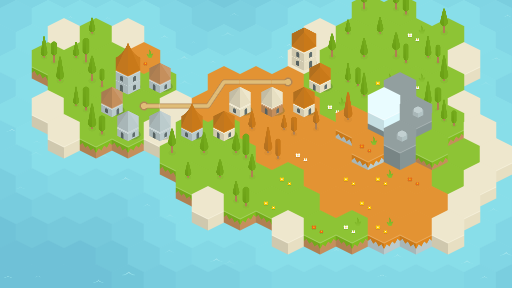
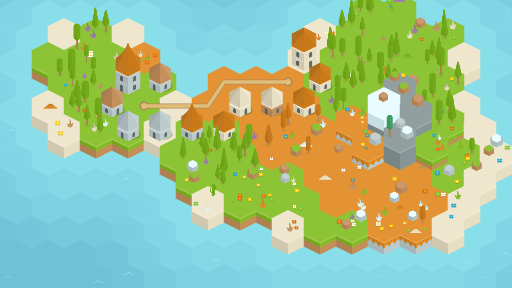
Improve Hex Coast roads and scenery variety

diff --git a/src/puzzles/hexCoast/HexCoastScene.ts b/src/puzzles/hexCoast/HexCoastScene.ts
@@ -9,7 +9,8 @@ import terrainImage from './assets/fullTiles.png';
 import terrainAtlas from './assets/fullTiles.xml?url';
 import treeImage from './assets/trees.png';
 import treeAtlas from './assets/trees.xml?url';
-import { coastSize, generateHexCoast, shoreHeight, terraceHeight } from './hexCoastLayout';
+import { coastSize, generateHexCoast, shoreHeight, terraceHeight, type CoastTile } from './hexCoastLayout';
+import { scatterHexScenery } from './hexCoastScenery';
 
 const sheets = [
   ['terrain', terrainImage, terrainAtlas],
@@ -27,6 +28,32 @@ const tileOriginY = 32 / 89;
 const wallHeight = 23;
 
 type Wave = { image: Phaser.GameObjects.Image; x: number; y: number; phase: number };
+type RoadPoint = Pick<CoastTile, 'x' | 'y'>;
+
+function roadStrokes(road: CoastTile[]) {
+  const rows = new Map<number, { from: RoadPoint; to: RoadPoint }[]>();
+  const add = (from: RoadPoint, to: RoadPoint) => {
+    const row = rows.get(from.y);
+    if (row) row.push({ from, to });
+    else rows.set(from.y, [{ from, to }]);
+  };
+  const halfStroke = (from: RoadPoint, to: RoadPoint) => {
+    // Extend just past the midpoint so the diagonal halves cover their seam.
+    add(from, { x: from.x + (to.x - from.x) * 0.52, y: from.y + (to.y - from.y) * 0.52 });
+  };
+
+  for (let index = 1; index < road.length; index += 1) {
+    const from = road[index - 1];
+    if (road[index].y === from.y) {
+      while (road[index + 1]?.y === from.y) index += 1;
+      add(from, road[index]);
+    } else {
+      halfStroke(from, road[index]);
+      halfStroke(road[index], from);
+    }
+  }
+  return rows;
+}
 
 export class HexCoastScene extends Phaser.Scene {
   static readonly key = 'HexCoast';
@@ -52,7 +79,6 @@ export class HexCoastScene extends Phaser.Scene {
     const { tiles, road, towns, buildings } = generateHexCoast(seed);
     const land = tiles.filter((tile) => tile.biome !== 'water');
     const random = seededRandom((seed ^ 0x5d3b6c17) >>> 0);
-    const choose = (frames: string[]) => frames[Math.floor(random() * frames.length)];
     const map = this.add.container().setScale(width / coastSize.width, height / coastSize.height);
     map.add(this.add.rectangle(0, 0, coastSize.width, coastSize.height, 0x6ebacf).setOrigin(0));
     const sprite = (sheet: Sheet, frame: string, x: number, y: number, scale = 1, originY = 1) => {
@@ -76,60 +102,68 @@ export class HexCoastScene extends Phaser.Scene {
       }
     }
 
-    const roadIndex = new Map(road.map((id, index) => [id, index]));
+    const landRows = new Map<number, typeof land>();
     for (const tile of land) {
-      const { id, x, y, level, biome, wooded } = tile;
-      for (let below = 0; below < level - 1; below += 1) {
-        ground('tileRock_full', x, y - shoreHeight - below * terraceHeight);
+      const row = landRows.get(tile.y);
+      if (row) row.push(tile);
+      else landRows.set(tile.y, [tile]);
+    }
+    const strokes = roadStrokes(road.map((id) => tiles[id]));
+    const roadIds = new Set(road);
+    for (const [rowY, row] of landRows) {
+      for (const { x, y, level, biome } of row) {
+        for (let below = 0; below < level - 1; below += 1) {
+          ground('tileRock_full', x, y - shoreHeight - below * terraceHeight);
+        }
+        ground(groundFrames[biome], x, y - shoreHeight - (level - 1) * terraceHeight);
       }
-      const surface = y - shoreHeight - (level - 1) * terraceHeight;
-      ground(groundFrames[biome], x, surface);
 
-      const index = roadIndex.get(id);
-      if (index !== undefined) {
-        const paths = [road[index - 1], road[index + 1]].filter((neighbor) => neighbor !== undefined);
+      // Paint the whole row's ground first, then draw straight streets as single strokes.
+      const streets = strokes.get(rowY);
+      if (streets) {
         const street = this.add.graphics();
         for (const [width, color] of [[10, 0xb18756], [7, 0xe0bd78]]) {
           street.lineStyle(width, color);
           street.beginPath();
-          for (const neighbor of paths) {
-            street.moveTo(x, surface);
-            street.lineTo((x + tiles[neighbor].x) / 2, (y + tiles[neighbor].y) / 2 - shoreHeight);
+          for (const { from, to } of streets) {
+            street.moveTo(from.x, from.y - shoreHeight);
+            street.lineTo(to.x, to.y - shoreHeight);
           }
           street.strokePath();
-          street.fillStyle(color).fillCircle(x, surface, towns.includes(id) ? width * 0.9 : width / 2);
+          street.fillStyle(color);
+          for (const { id, x, y } of row) {
+            if (roadIds.has(id)) street.fillCircle(x, y - shoreHeight, towns.includes(id) ? width * 0.9 : width / 2);
+          }
         }
         map.add(street);
-        continue;
       }
 
-      const building = buildings.get(id);
-      if (building) {
-        const scale = building.floors === 2 ? 0.75 : 0.66;
-        const shadow = this.add.ellipse(x + 4, surface + 9, 43, 22, 0x465c3c, 0.28);
-        map.add(shadow);
-        for (let floor = 1; floor <= building.floors; floor += 1) {
-          sprite('buildings', floor === 1 ? building.wall : building.upper,
-            x, surface - floor * wallHeight * scale, scale, tileOriginY);
+      const scenery: { y: number; draw: () => void }[] = [];
+      for (const tile of row) {
+        const { id, x, y, level } = tile;
+        if (roadIds.has(id)) continue;
+        const surface = y - shoreHeight - (level - 1) * terraceHeight;
+        const building = buildings.get(id);
+        if (building) {
+          scenery.push({ y: surface, draw: () => {
+            const scale = building.floors === 2 ? 0.75 : 0.66;
+            map.add(this.add.ellipse(x + 4, surface + 9, 43, 22, 0x465c3c, 0.28));
+            for (let floor = 1; floor <= building.floors; floor += 1) {
+              sprite('buildings', floor === 1 ? building.wall : building.upper,
+                x, surface - floor * wallHeight * scale, scale, tileOriginY);
+            }
+            sprite('buildings', building.roof, x, surface + (32 - building.floors * wallHeight) * scale, scale);
+          } });
+          continue;
         }
-        sprite('buildings', building.roof, x, surface + (32 - building.floors * wallHeight) * scale, scale);
-        continue;
-      }
-
-      if (wooded && random() < 0.87) {
-        const season = biome === 'autumn' ? 'Autumn' : 'Green';
-        sprite('trees', `pine${season}_${choose(['high', 'mid', 'low'])}`, x - 8, surface + 3, 0.4 + random() * 0.2);
-        if (random() < 0.61) {
-          sprite('trees', `tree${season}_${choose(['high', 'mid', 'low'])}`, x + 12, surface + 13, 0.36 + random() * 0.16);
+        for (const detail of scatterHexScenery(tile, random)) {
+          const footY = surface + detail.y;
+          scenery.push({ y: footY, draw: () =>
+            sprite(detail.sheet, detail.frame, x + detail.x, footY, detail.scale) });
         }
-      } else if ((biome === 'rock' || biome === 'snow') && random() < 0.65) {
-        sprite('details', biome === 'snow' ? 'smallRockSnow' : 'smallRockStone', x + 4, surface + 12, 0.72);
-      } else if ((biome === 'grass' || biome === 'autumn') && random() < 0.64) {
-        const flower = choose(['flowerYellow', 'flowerWhite', 'flowerRed']);
-        sprite('details', flower, x - 12, surface + 8, 0.86);
-        sprite('details', flower, x + 3, surface + 16, 0.7);
-        if (random() < 0.38) sprite('details', 'bushGrass', x + 12, surface, 0.87);
       }
+      scenery.sort((a, b) => a.y - b.y);
+      for (const feature of scenery) feature.draw();
     }
     this.update(0, 0);
   }

diff --git a/src/puzzles/hexCoast/hexCoastScenery.ts b/src/puzzles/hexCoast/hexCoastScenery.ts
@@ -1,0 +1,59 @@
+import type { seededRandom } from '../../domain/seededRandom.ts';
+import type { CoastTile } from './hexCoastLayout.ts';
+
+type Random = ReturnType<typeof seededRandom>;
+type ScenerySprite = { sheet: 'details' | 'trees'; frame: string; scale: number };
+type Placement = ScenerySprite & { x: number; y: number; radius: number };
+
+const flowers = ['flowerBlue', 'flowerGreen', 'flowerRed', 'flowerWhite', 'flowerYellow'];
+const grasses = ['bushAutumn', 'bushDirt', 'bushGrass', 'bushMagic', 'bushSand', 'bushSnow'];
+const boulders = ['smallRockDirt', 'smallRockGrass', 'smallRockSnow', 'smallRockStone'];
+const hills = ['hillAutumn', 'hillDirt', 'hillGrass', 'hillMagic', 'hillSand', 'hillSnow'];
+
+export function scatterHexScenery({ biome, wooded }: Pick<CoastTile, 'biome' | 'wooded'>, random: Random) {
+  const placements: Placement[] = [];
+  if (biome === 'water') return placements;
+  const choose = (frames: string[]) => frames[Math.floor(random() * frames.length)];
+  function place(sprite: ScenerySprite, radius: number) {
+    for (let attempt = 0; attempt < 16; attempt += 1) {
+      const x = (random() - 0.5) * 56;
+      const y = (random() - 0.5) * 56;
+      // The ground face runs 32px from its center to the side and to either tip.
+      // Inset the footprint from those edges, including the sloped sides.
+      const side = Math.abs(x) + radius;
+      if (side > 29 || Math.abs(y) + radius * 0.6 + side / 2 > 29) continue;
+      if (placements.some((other) => Math.hypot(x - other.x, (y - other.y) * 1.35) < radius + other.radius)) continue;
+      placements.push({ ...sprite, x, y, radius });
+      return;
+    }
+  }
+
+  const meadow = biome === 'grass' || biome === 'autumn';
+  const exposed = biome === 'rock' || biome === 'snow';
+  const trees = wooded ? Math.floor(random() * 5) : random() < (meadow ? 0.13 : 0.09) ? 1 : 0;
+  for (let index = 0; index < trees; index += 1) {
+    const season = biome === 'autumn' ? 'Autumn' : exposed ? 'Blue' : 'Green';
+    const frame = biome === 'sand' ? choose(['treeCactus_1', 'treeCactus_2', 'treeCactus_3'])
+      : `${choose(['pine', 'tree'])}${season}_${choose(['high', 'mid', 'low'])}`;
+    const scale = 0.34 + random() * 0.24;
+    place({ sheet: 'trees', frame, scale }, 5 + scale * 7);
+  }
+
+  const rocks = random() < (exposed ? 0.86 : 0.24) ? 1 + Math.floor(random() * 2) : 0;
+  for (let index = 0; index < rocks; index += 1) {
+    const scale = 0.60 + random() * 0.29;
+    place({ sheet: 'details', frame: choose(boulders), scale }, 7 + scale * 4);
+  }
+  if (random() < (exposed ? 0.20 : 0.10)) {
+    const scale = 0.65 + random() * 0.22;
+    place({ sheet: 'details', frame: choose(hills), scale }, 8 + scale * 4);
+  }
+
+  const groundCover = random() < (meadow ? 0.83 : 0.45) ? 1 + Math.floor(random() * (meadow ? 5 : 3)) : 0;
+  for (let index = 0; index < groundCover; index += 1) {
+    const flowering = random() < 0.58;
+    const scale = 0.62 + random() * 0.37;
+    place({ sheet: 'details', frame: choose(flowering ? flowers : grasses), scale }, flowering ? 3.5 : 5);
+  }
+  return placements;
+}

diff --git a/src/puzzles/hexCoast/hexCoastLayout.ts b/src/puzzles/hexCoast/hexCoastLayout.ts
@@ -9,7 +9,7 @@ const columns = 17;
 const rows = 14;
 type Random = ReturnType<typeof seededRandom>;
 type Biome = 'water' | 'sand' | 'grass' | 'autumn' | 'rock' | 'snow';
-type Tile = { id: number; x: number; y: number; level: number; biome: Biome; wooded: boolean };
+export type CoastTile = { id: number; x: number; y: number; level: number; biome: Biome; wooded: boolean };
 type Building = { wall: string; upper: string; roof: string; floors: number };
 
 const grid = Array.from({ length: columns * rows }, (_, id) => {
@@ -36,11 +36,11 @@ function distance(from: number, to: number) {
   return Math.max(Math.abs(row), Math.abs(column), Math.abs(row + column));
 }
 
-function buildable({ level, x, y }: Tile) {
+function buildable({ level, x, y }: CoastTile) {
   return level === 1 && x >= 56 && x <= 968 && y >= 110 && y <= 523;
 }
 
-function terrain(random: Random): Tile[] {
+function terrain(random: Random): CoastTile[] {
   const side = random() < 0.5 ? -1 : 1;
   const main = { x: 512 + side * (118 + random() * 62), y: 240 + random() * 80 };
   const island = { x: 512 - side * (266 + random() * 45), y: 155 + random() * 245 };
@@ -78,8 +78,8 @@ function terrain(random: Random): Tile[] {
   });
 }
 
-function develop(tiles: Tile[], random: Random) {
-  const availableLots = (tile: Tile) => neighbors[tile.id].filter(({ id }) => buildable(tiles[id])).length;
+function develop(tiles: CoastTile[], random: Random) {
+  const availableLots = (tile: CoastTile) => neighbors[tile.id].filter(({ id }) => buildable(tiles[id])).length;
   const sites = tiles.filter((tile) => buildable(tile) && availableLots(tile) >= 3);
   const harbors = sites.filter((tile) => neighbors[tile.id].some(({ id }) => tiles[id].level === 0))
     .map((tile) => ({ tile, score: availableLots(tile) + random() * 4 }));
@@ -102,7 +102,7 @@ function develop(tiles: Tile[], random: Random) {
   }
 }
 
-function buildSettlements(tiles: Tile[], road: number[], harbor: Tile, village: Tile, random: Random) {
+function buildSettlements(tiles: CoastTile[], road: number[], harbor: CoastTile, village: CoastTile, random: Random) {
   const occupied = new Set(road);
   const roadside = new Set(road.flatMap((id) => neighbors[id].map((neighbor) => neighbor.id)));
   const buildings = new Map<number, Building>();
